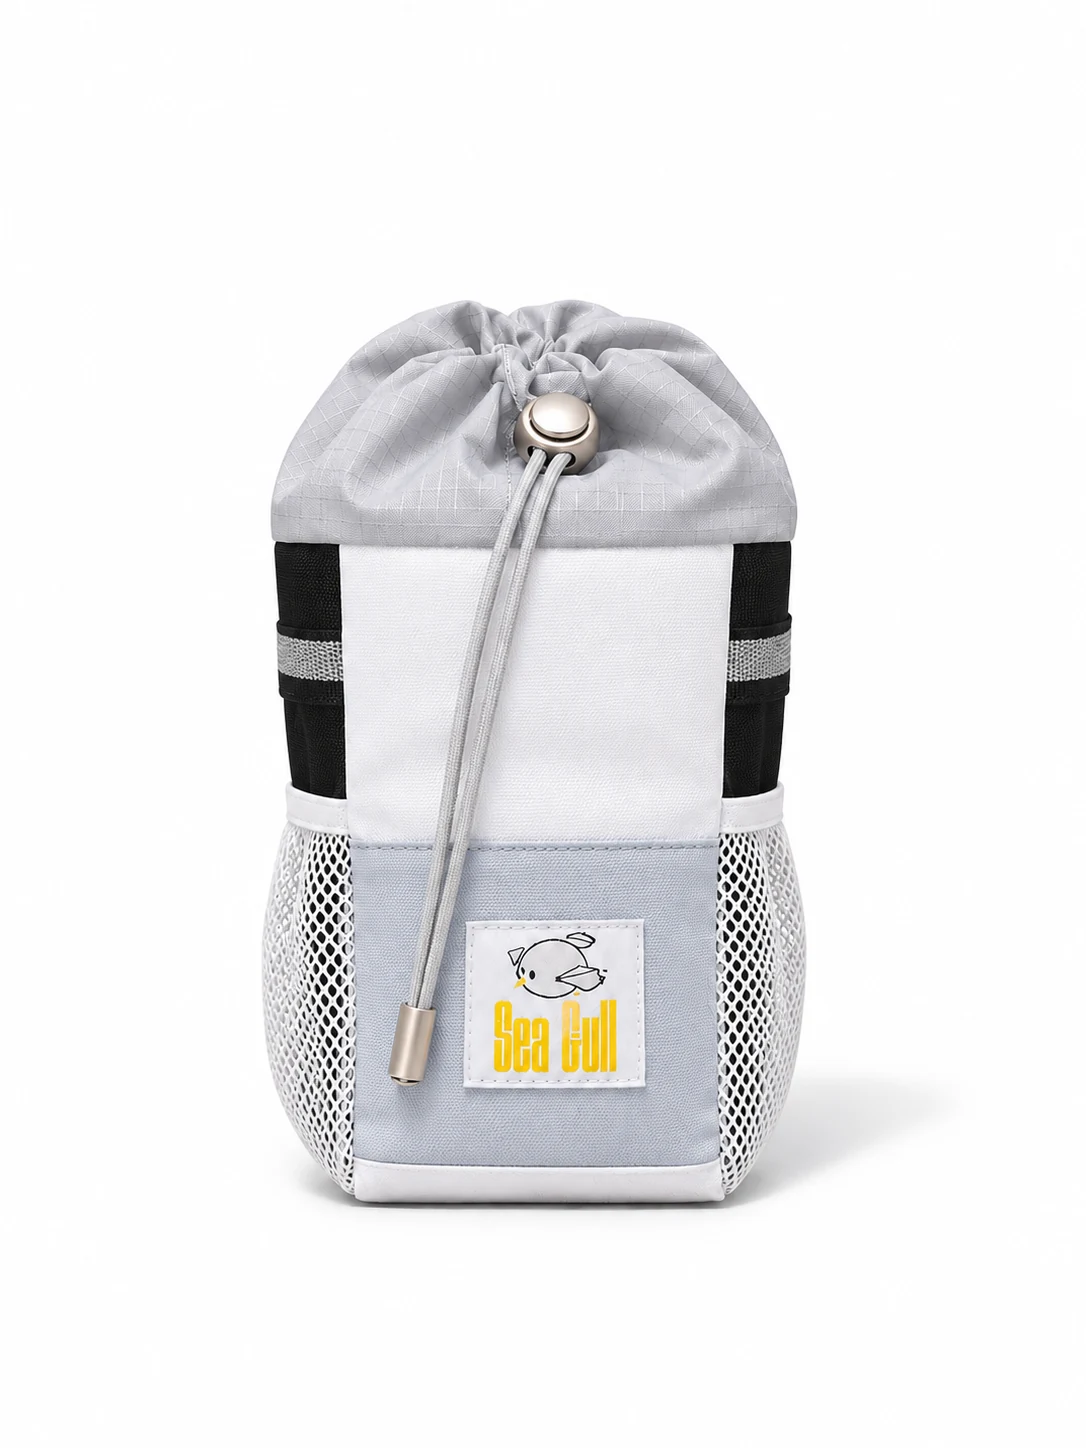
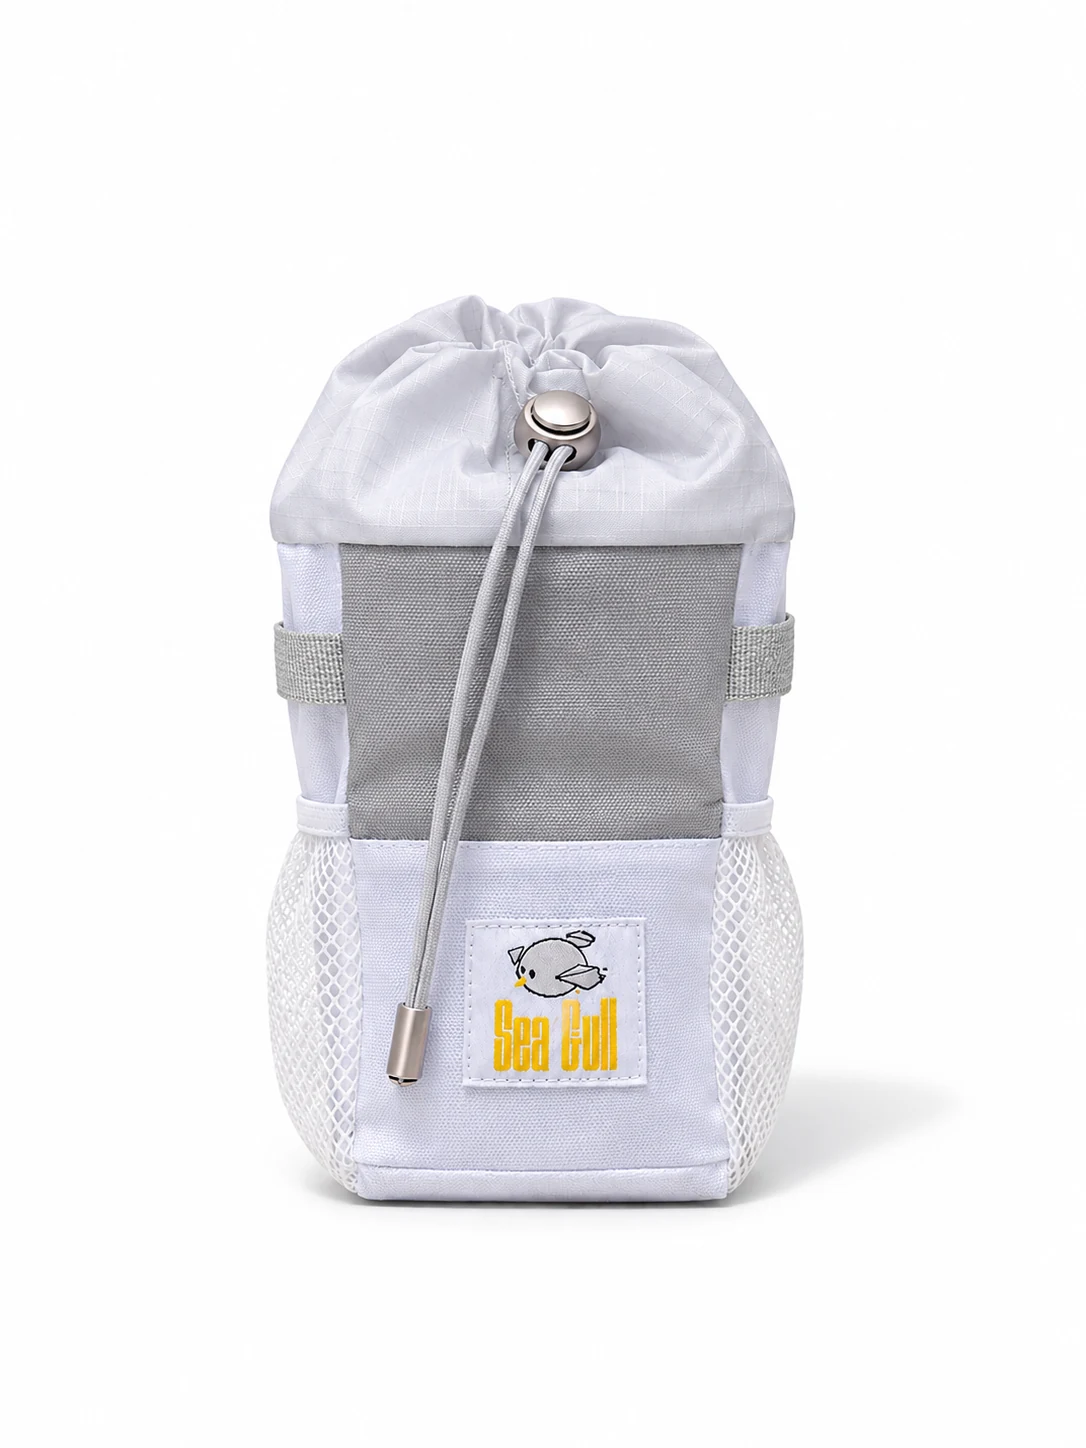
Refine shop colourway order and primary framing

Changed region(s): [[0.2431, 0.1865, 0.7597, 0.8391]]

diff --git a/app/[locale]/[[...segments]]/page.tsx b/app/[locale]/[[...segments]]/page.tsx
@@ -137,14 +137,14 @@ function Home({ locale }: { locale: LocalizedLocale }) {
 }
 
 function ProductCards({ locale, products }: { locale: LocalizedLocale; products: typeof storefrontProducts }) {
-  return <div className="mt-8 grid gap-6 sm:grid-cols-2 lg:grid-cols-4">{products.map((raw) => { const product = localizedProduct(raw, locale); return <Link key={product.slug} href={localizedPath(`/shop/${product.slug}`, locale)} className="overflow-hidden border border-sglInk bg-sglPaper transition hover:-translate-y-1"><div className="relative aspect-[4/5] overflow-hidden border-b border-sglInk bg-[#ededeb]"><Image src={product.images[0]} alt={product.title} fill sizes="25vw" className="object-cover mix-blend-darken" /></div><div className="p-5">{product.soldOut && <p className="mb-3 inline-block border border-sglInk bg-sglInk px-3 py-1 text-xs font-black uppercase tracking-wide text-sglCream">{labels[locale].soldOut}</p>}<h2 className="text-xl font-black">{product.title}</h2><p className="mt-3 text-sm leading-6 opacity-70">{product.description}</p><p className="mt-4 font-black">$ {product.priceLabel}</p></div></Link>; })}</div>;
+  return <div className="mt-8 grid gap-6 sm:grid-cols-2 lg:grid-cols-4">{products.map((raw) => { const product = localizedProduct(raw, locale); const useInsetComposition = raw.slug === "pin"; return <Link key={product.slug} href={localizedPath(`/shop/${product.slug}`, locale)} className="overflow-hidden border border-sglInk bg-sglPaper transition hover:-translate-y-1"><div className="relative aspect-[4/5] overflow-hidden border-b border-sglInk bg-[#ededeb]"><Image src={product.images[0]} alt={product.title} fill sizes="25vw" className={useInsetComposition ? "object-contain p-8 mix-blend-darken" : "object-cover mix-blend-darken"} /></div><div className="p-5">{product.soldOut && <p className="mb-3 inline-block border border-sglInk bg-sglInk px-3 py-1 text-xs font-black uppercase tracking-wide text-sglCream">{labels[locale].soldOut}</p>}<h2 className="text-xl font-black">{product.title}</h2><p className="mt-3 text-sm leading-6 opacity-70">{product.description}</p><p className="mt-4 font-black">$ {product.priceLabel}</p></div></Link>; })}</div>;
 }
 
 function About({ locale }: { locale: LocalizedLocale }) { const c = pageCopy[locale].about; const l = labels[locale]; const anniversaryAlt = locale === "it-IT" ? "Illustrazione del primo anniversario SGL con un ciclista e un gabbiano" : "SGL one year anniversary"; return <><Hero copy={c} /><section className="mx-auto max-w-sgl px-4 py-16 md:px-8"><h2 className="text-4xl font-black uppercase">{l.history}</h2><div className="mt-8 grid gap-4 md:grid-cols-2 lg:grid-cols-3">{timeline[locale].map(item => <article key={item.date} className="border border-sglInk bg-sglPaper p-5"><p className="font-black">{item.date}</p><p className="mt-3 leading-7">{item.text}</p></article>)}</div></section><section className="border-y border-sglInk bg-sglAcid"><div className="mx-auto grid max-w-sgl gap-8 px-4 py-16 md:grid-cols-2 md:px-8"><figure><Image src="/events/calendar/one-year-anniversary.webp" alt={anniversaryAlt} width={778} height={822} className="w-full border border-sglInk" /></figure><div className="flex items-center"><p className="text-xl leading-9">{c.intro}<br /><br />{c.secondary}</p></div></div></section></> }
 
 function Shop({ locale }: { locale: LocalizedLocale }) { const c = pageCopy[locale].shop; const l = labels[locale]; const bannerAlt = locale === "it-IT" ? "Ciclista SGL con una bicicletta in città" : "SGL rider with a bicycle"; return <section className="mx-auto max-w-sgl px-4 py-12 md:px-8"><div className="relative overflow-hidden border border-sglInk bg-sglInk"><Image src="/products/shop-ride-banner.webp" alt={bannerAlt} width={2000} height={1326} priority className="aspect-[2/1] w-full object-cover" /><h1 className="absolute bottom-6 left-6 text-5xl font-black uppercase text-sglCream">{l.shop}</h1></div><p className="mt-6 max-w-3xl text-lg leading-8">{c.intro}</p><p className="mt-3 opacity-65">{c.secondary}</p><ProductCards locale={locale} products={storefrontProducts} /></section> }
 
-function ProductDetail({ locale, slug }: { locale: LocalizedLocale; slug: string }) { const raw = getProduct(slug); if (!raw || raw.hidden) notFound(); const product = localizedProduct(raw, locale); const l = labels[locale]; const path = localizedPath(`/shop/${slug}`, locale); return <section className="mx-auto max-w-sgl px-4 py-12 md:px-8"><script type="application/ld+json" dangerouslySetInnerHTML={{ __html: serializeJsonLd(productJsonLd(product, path)) }} /><Link href={localizedPath("/shop", locale)} className="font-bold underline">← {l.back}</Link><div className="mt-8 grid gap-10 lg:grid-cols-2"><ProductGallery images={product.images} title={product.title} /><div><p className="text-sm font-black uppercase tracking-widest opacity-60">{product.category}</p><h1 className="mt-3 text-5xl font-black">{product.title}</h1><p className="mt-5 text-lg leading-8">{product.description}</p><h2 className="mt-8 text-xl font-black uppercase">{l.details}</h2><ul className="mt-4 list-disc space-y-2 pl-5">{product.details.map(item => <li key={item}>{item}</li>)}</ul><ProductPurchase product={product} /></div></div></section> }
+function ProductDetail({ locale, slug }: { locale: LocalizedLocale; slug: string }) { const raw = getProduct(slug); if (!raw || raw.hidden) notFound(); const product = localizedProduct(raw, locale); const l = labels[locale]; const path = localizedPath(`/shop/${slug}`, locale); return <section className="mx-auto max-w-sgl px-4 py-12 md:px-8"><script type="application/ld+json" dangerouslySetInnerHTML={{ __html: serializeJsonLd(productJsonLd(product, path)) }} /><Link href={localizedPath("/shop", locale)} className="font-bold underline">← {l.back}</Link><div className="mt-8 grid gap-10 lg:grid-cols-2"><ProductGallery images={product.images} title={product.title} insetPrimary={raw.slug === "pin"} /><div><p className="text-sm font-black uppercase tracking-widest opacity-60">{product.category}</p><h1 className="mt-3 text-5xl font-black">{product.title}</h1><p className="mt-5 text-lg leading-8">{product.description}</p><h2 className="mt-8 text-xl font-black uppercase">{l.details}</h2><ul className="mt-4 list-disc space-y-2 pl-5">{product.details.map(item => <li key={item}>{item}</li>)}</ul><ProductPurchase product={product} /></div></div></section> }
 
 function Station({ locale }: { locale: LocalizedLocale }) { const c = pageCopy[locale].station; const l = labels[locale]; const cards = locale === "zh-CN" ? ["咖啡与饮品", "零售商品", "骑行社群", "活动与聚会"] : locale === "ja-JP" ? ["コーヒーとドリンク", "リテールグッズ", "サイクリングコミュニティ", "イベントと集まり"] : locale === "ko-KR" ? ["커피와 음료", "리테일 굿즈", "사이클링 커뮤니티", "이벤트와 모임"] : ["Caffè e bevande", "Prodotti SGL", "Comunità ciclistica", "Eventi e incontri"]; const address = stationAddresses[locale]; const path = localizedPath("/station", locale); return <><script type="application/ld+json" dangerouslySetInnerHTML={{ __html: serializeJsonLd(stationJsonLd(path)) }} /><Image src="/station/seagull-sunset.webp" alt="Seagull Station" width={1672} height={941} priority className="mx-auto h-auto w-full max-w-sgl" /><Hero copy={c} /><section className="mx-auto max-w-sgl px-4 py-16 md:px-8"><h2 className="text-4xl font-black uppercase">{l.current}</h2><div className="mt-8 grid gap-5 md:grid-cols-4">{cards.map(item => <article key={item} className="border border-sglInk bg-sglPaper p-6"><h3 className="text-2xl font-black">{item}</h3></article>)}</div><div className="mt-10 border border-sglInk bg-sglAcid p-6"><h2 className="text-2xl font-black uppercase">{l.address}</h2><p className="mt-4 text-lg">{address}</p></div></section></> }
 

diff --git a/tests/products.test.ts b/tests/products.test.ts
@@ -3,6 +3,7 @@ import assert from "node:assert/strict";
 import {
   categories,
   getProduct,
+  getProductsByCategory,
   isProductReadyForStorefront,
   products,
   storefrontProducts
@@ -18,10 +19,10 @@ test("storefront hides products without a real image or price", () => {
 
 test("storefront begins with one row of caps and socks start the second row", () => {
   assert.deepEqual(storefrontProducts.slice(0, 5).map(product => product.slug), [
+    "seagull-friends-family-cap-white-blue",
     "seagull-cap-khaki-brown",
     "seagull-cap-lavender",
     "seagull-cap-black-grey",
-    "seagull-friends-family-cap-white-blue",
     "sgl-three-pair-sock-set"
   ]);
 });
@@ -33,6 +34,14 @@ test("shop category sections follow the approved order", () => {
     "Wear & Ride",
     "Coffee & Refuel",
     "Accessories"
+  ]);
+});
+
+test("black handlebar bag sits between the white-grey and grey colourways", () => {
+  assert.deepEqual(getProductsByCategory("Bags & Carry").slice(0, 3).map(product => product.slug), [
+    "handlebar-bag-white-grey",
+    "handlebar-bags",
+    "handleber-bags-grey"
   ]);
 });
 
@@ -84,6 +93,7 @@ test("new handlebar bag colourways have independent links and approved imagery",
   }
   assert.equal(getProduct("handlebar-bags")?.images[0], "/products/handlebar-bag-black-studio.webp");
   assert.equal(getProduct("handlebar-bags-reflect-grey")?.images[0], "/products/handlebar-bag-grey-orange-studio.webp");
+  assert.equal(getProduct("handleber-bags-grey")?.images[0], "/products/handlebar-bag-grey-studio.webp");
   assert.equal(getProduct("handlebar-bags-purple")?.images[0], "/products/handlebar-bag-purple-studio.webp");
   assert.equal(getProduct("handleber-bags-red")?.images[0], "/products/handlebar-bag-red-studio.webp");
 });

diff --git a/data/products.ts b/data/products.ts
@@ -1729,6 +1729,7 @@ export const products: Product[] = [
     "priceLabel": "50",
     "badge": "Grey",
     "images": [
+      "/products/handlebar-bag-grey-studio.webp",
       "/products/optimized/sgl-product-074.webp"
     ],
     "description": "A compact drawcord SGL bag designed to mount at the bicycle handlebar, with side mesh pockets for small essentials.",
@@ -1748,7 +1749,7 @@ export const products: Product[] = [
         ],
         "price": 50.0,
         "inventory": 50,
-        "image": "/products/optimized/sgl-product-074.webp"
+        "image": "/products/handlebar-bag-grey-studio.webp"
       }
     ],
     "temporaryShopifyUrl": "https://581ff0-3.myshopify.com/products/handleber-bags-grey",
@@ -2027,10 +2028,10 @@ export function isProductReadyForStorefront(product: Product) {
 }
 
 const featuredStorefrontOrder = [
+  "seagull-friends-family-cap-white-blue",
   "seagull-cap-khaki-brown",
   "seagull-cap-lavender",
   "seagull-cap-black-grey",
-  "seagull-friends-family-cap-white-blue",
   "sgl-three-pair-sock-set"
 ];
 
@@ -2076,9 +2077,11 @@ export function getProductsByCategory(category: string) {
     ];
   }
   if (category !== "Bags & Carry") return items;
+  const first = ["handlebar-bag-white-grey", "handlebar-bags", "handleber-bags-grey"];
   const last = ["seat-bag", "bike-cover", "reveal-shoe-sack", "sportglassea-case"];
   return [
-    ...items.filter(product => !last.includes(product.slug)),
+    ...first.flatMap(slug => items.filter(product => product.slug === slug)),
+    ...items.filter(product => !first.includes(product.slug) && !last.includes(product.slug)),
     ...last.flatMap(slug => items.filter(product => product.slug === slug))
   ];
 }

diff --git a/components/ProductGallery.tsx b/components/ProductGallery.tsx
@@ -13,7 +13,7 @@ const galleryCopy: Record<Locale, { image: string; images: string; show: string;
   "it-IT": { image: "immagine", images: "Immagini del prodotto", show: "Mostra", thumbnail: "miniatura" }
 };
 
-export default function ProductGallery({ images, title }: { images: string[]; title: string }) {
+export default function ProductGallery({ images, title, insetPrimary = false }: { images: string[]; title: string; insetPrimary?: boolean }) {
   const locale = localeFromPath(usePathname());
   const copy = galleryCopy[locale];
   const [selected, setSelected] = useState(0);
@@ -21,7 +21,7 @@ export default function ProductGallery({ images, title }: { images: string[]; ti
   return (
     <div>
       <div className={`relative aspect-square overflow-hidden border border-sglInk ${selected === 0 ? "bg-[#ededeb]" : "bg-sglPaper"}`} aria-live="polite">
-        <Image src={photos[selected]} alt={`${title} — ${copy.image} ${selected + 1}`} fill priority sizes="(max-width: 768px) 100vw, 50vw" className={selected === 0 ? "object-cover mix-blend-darken" : "object-contain p-4"} />
+        <Image src={photos[selected]} alt={`${title} — ${copy.image} ${selected + 1}`} fill priority sizes="(max-width: 768px) 100vw, 50vw" className={selected === 0 ? (insetPrimary ? "object-contain p-10 mix-blend-darken" : "object-cover mix-blend-darken") : "object-contain p-4"} />
       </div>
       {photos.length > 1 && (
         <div className="mt-4 grid grid-cols-4 gap-3" aria-label={copy.images}>

diff --git a/components/ProductCard.tsx b/components/ProductCard.tsx
@@ -4,6 +4,7 @@ import type { Product } from "@/data/products";
 
 export default function ProductCard({ product }: { product: Product }) {
   const image = product.images[0] || "/products/placeholder-bag.svg";
+  const useInsetComposition = product.slug === "pin";
 
   return (
     <Link
@@ -16,7 +17,7 @@ export default function ProductCard({ product }: { product: Product }) {
           alt={product.title}
           fill
           sizes="(max-width: 768px) 50vw, 25vw"
-          className="object-cover mix-blend-darken"
+          className={useInsetComposition ? "object-contain p-8 mix-blend-darken" : "object-cover mix-blend-darken"}
         />
       </div>
 

diff --git a/app/shop/[slug]/page.tsx b/app/shop/[slug]/page.tsx
@@ -36,7 +36,7 @@ export default function ProductPage({ params }: { params: { slug: string } }) {
   return (
     <section className="mx-auto grid max-w-sgl gap-10 px-4 py-16 md:grid-cols-[0.95fr_1.05fr] md:px-8">
       <script type="application/ld+json" dangerouslySetInnerHTML={{ __html: serializeJsonLd(productJsonLd(product)) }} />
-      <ProductGallery images={product.images} title={product.title} />
+      <ProductGallery images={product.images} title={product.title} insetPrimary={product.slug === "pin"} />
 
       <div>
         <p className="text-sm font-black uppercase tracking-[0.28em] opacity-60">
